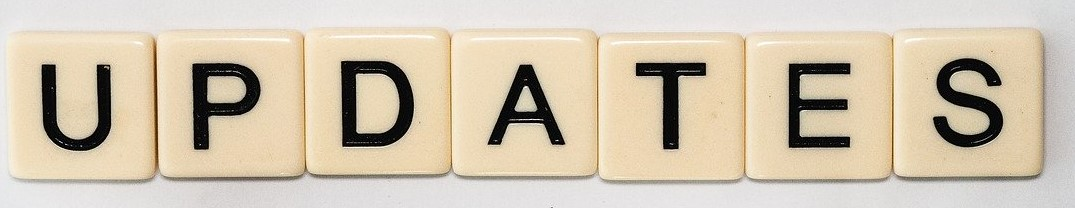
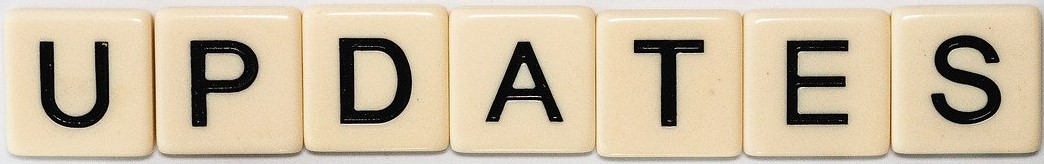
update image

diff --git a/lib/singinup/pages/profile_user.dart b/lib/singinup/pages/profile_user.dart
@@ -55,7 +55,7 @@ class _UserProfileState extends State<UserProfile> {
                     Text('Name: $name',
                       style: TextStyle(
                           fontWeight: FontWeight.bold,
-                          fontSize: 25
+                          fontSize: 20
                       ),
                     ),
                     SizedBox(
@@ -64,7 +64,7 @@ class _UserProfileState extends State<UserProfile> {
                     Text('User Id: $userid',
                       style: TextStyle(
                           fontWeight: FontWeight.bold,
-                          fontSize: 25
+                          fontSize: 20
                       ),
                     ),
                     SizedBox(
@@ -72,7 +72,7 @@ class _UserProfileState extends State<UserProfile> {
                     ),
                     Text('Email: $email',
                       style: TextStyle(
-                          fontWeight: FontWeight.bold,fontSize: 25
+                          fontWeight: FontWeight.bold,fontSize: 20
                       ),
                     ),
                     SizedBox(

diff --git a/lib/singinup/pages/homepage.dart b/lib/singinup/pages/homepage.dart
@@ -430,7 +430,7 @@ class _HomePageState extends State<HomePage> {
                     },
                     child: Container(
                       color: Colors.grey,
-                      height: MediaQuery.of(context).size.height*0.12,
+                      height: MediaQuery.of(context).size.height*0.08,
                       width: MediaQuery.of(context).size.width*0.4,
                       child: Center(
                         child: Column(
@@ -438,8 +438,8 @@ class _HomePageState extends State<HomePage> {
                           crossAxisAlignment: CrossAxisAlignment.center,
                           children: <Widget>[
                             Image(
-                              image: AssetImage("assets/images/update.jpg"),
-                              height: MediaQuery.of(context).size.height*0.1,
+                              image: AssetImage("assets/images/update.png"),
+                              height: MediaQuery.of(context).size.height*0.065,
 //                              width: 100,
                               fit: BoxFit.fill,
                             ),

diff --git a/lib/singinup/network_utils/ipaddress.dart b/lib/singinup/network_utils/ipaddress.dart
@@ -1,5 +1,9 @@
 class Server{
 
-  static String ipAddress = "192.168.1.5";
+  static String ipAddress = "192.168.100.7";
 //10.0.2.2
+
+//192.168.1.5 anish
+
+//192.168.100.7
 }
